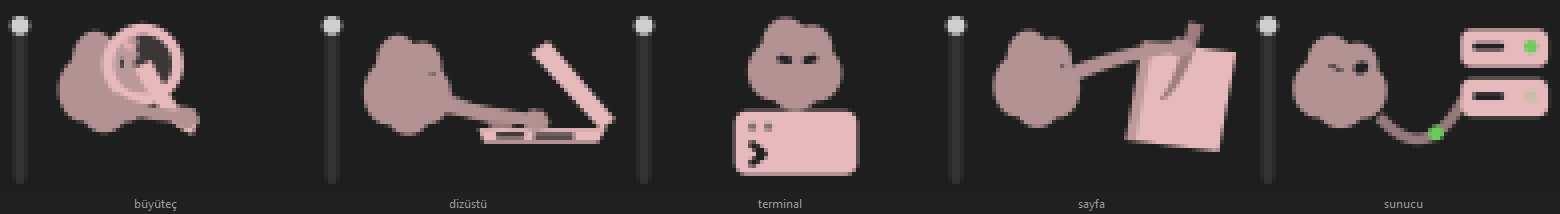
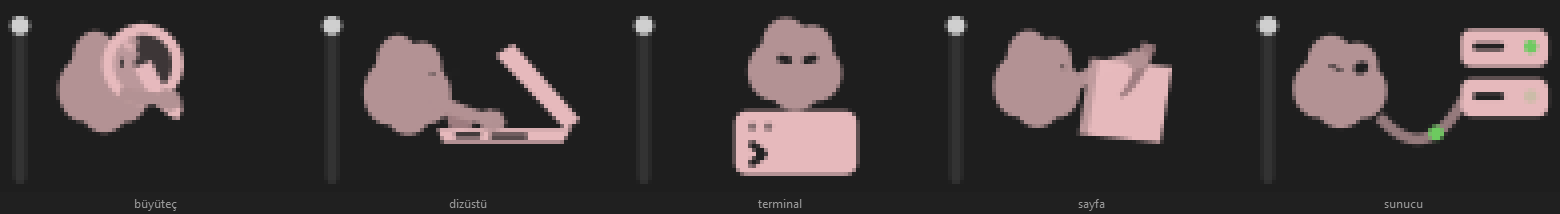
Nesneler gövdeye yanaştı: kollar geriliyordu
Berkay "eller bilgisayara çok uzun olmuş, sayfa kısmı da berbat,
büyüteçte öyle" dedi. Sebep ortaktı: nesne gövdeden 25-30 birim uzakta
duruyordu ve kol o mesafeyi kapatmak için çubuğa dönüyordu.

  dizüstü  46..90 -> 32..78; yazan biri bilgisayarı kucağına çeker
  büyüteç  sapın ucu 56 -> 51; merceği kolunu uzatarak değil sapından
           tutarsın
  sayfa    54..92 arasında koca bir levhaydı, sahnenin yarısı kâğıttı;
           küçüldü ve gövdeye yanaştı

Sayfada bir de sıra değişti: kol artık kâğıdın **arkasında**, el ve
kalem önünde. Kol önde olduğunda sayfanın üstünden geçip neyin kâğıt
neyin kol olduğunu belirsizleştiriyordu.

Changed region(s): [[0.6769, 0.0841, 0.8, 0.729], [0.2769, 0.1963, 0.4, 0.6729], [0.0615, 0.4206, 0.1538, 0.6168]]

diff --git a/scripts/sahne_svg.py b/scripts/sahne_svg.py
@@ -165,9 +165,12 @@ def mercek():
     # yüz uzayında (59.0, 37.5), profil kayması +16 ile (75.0, 37.5).
     # 46/96 ölçeğinde sahnede (37.9, 22.0) ediyor.
     cam = (38.0, 22.0)
-    sap_ucu = (56.0, 44.0)
-    el = (53.0, 40.0)
-    omuz = (28.0, 34.0)
+    # Sap camın hemen altında bitiyor ve el orada. Uç 56'daydı: el
+    # gövdeden 25 birim uzağa düşüyor ve kol geriliyordu. Bir merceği
+    # kolunu uzatarak değil, sapından tutarsın.
+    sap_ucu = (51.0, 39.0)
+    el = (47.0, 34.0)
+    omuz = (30.0, 32.0)
     return [
         ("--yuz--", None),
         ("sap", f'<path id="sap" d="{_serit(cam, sap_ucu, 3.2, 2.4, 0.5)}" '
@@ -197,13 +200,16 @@ def laptop():
     göstermiyor ve göstermemeli: ne yazdığı onun işi, bizim gördüğümüz
     şey çalıştığı.
     """
-    taban_sol, taban_sag, taban_y = 46.0, 90.0, 44.0
+    # Dizüstü gövdenin **önünde**, uzağında değil. 46..90 idi ve eller
+    # gövdeden 30 birim ötede kalıyordu: kollar uzayıp çubuğa dönüyordu.
+    # Yazan biri bilgisayarı kucağına çeker.
+    taban_sol, taban_sag, taban_y = 32.0, 78.0, 44.0
     # Menteşe sağ uçta ve ekranın tepesi **sola**, maskota doğru
     # yatıyor. Önceki hâlde sağa yatıyordu: ekran bize dönüktü ve
     # maskot arkasına bakıyordu.
-    ekran = [(88.0, 44.5), (64.0, 18.0), (70.0, 14.0), (93.0, 41.0)]
-    eller = [(54.0, 41.0), (66.0, 41.0)]
-    omuzlar = [(24.0, 28.0), (26.0, 34.0)]
+    ekran = [(76.0, 44.5), (52.0, 19.0), (58.0, 15.0), (81.0, 41.0)]
+    eller = [(40.0, 41.0), (51.0, 41.0)]
+    omuzlar = [(28.0, 28.0), (30.0, 34.0)]
     return [
         ("kol-uzak", f'<path id="kol-uzak" d="{_kol(omuzlar[0], eller[0], 0.6)}" '
                      f'fill="{RENK_UZAK}"/>'),
@@ -213,8 +219,8 @@ def laptop():
         ("ekran", f'<path id="ekran" d="{_yol(ekran)}" fill="{RENK_GOVDE}"/>'),
         ("taban", f'<path id="taban" d="{_yol([(taban_sol, taban_y), (taban_sag, taban_y), (taban_sag - 3, taban_y + 5), (taban_sol + 2, taban_y + 5)])}" '
                   f'fill="{RENK_GOVDE}"/>'),
-        ("tus-1", _kutu("tus-1", 52, taban_y + 1.5, 10, 1.8, 0.9, RENK_OYUK)),
-        ("tus-2", _kutu("tus-2", 65, taban_y + 1.5, 14, 1.8, 0.9, RENK_OYUK)),
+        ("tus-1", _kutu("tus-1", 38, taban_y + 1.5, 9, 1.8, 0.9, RENK_OYUK)),
+        ("tus-2", _kutu("tus-2", 50, taban_y + 1.5, 13, 1.8, 0.9, RENK_OYUK)),
         ("kol-yakin", f'<path id="kol-yakin" d="{_kol(omuzlar[1], eller[1], 0.6)}" '
                       f'fill="{RENK_TEN}"/>'),
         ("el-yakin", f'<path id="el-yakin" d="{_el(eller[1])}" '
@@ -256,18 +262,24 @@ def sayfa():
     arkasını görüyoruz. Satır çizmiyoruz: arkadan bakılan bir kâğıtta
     satır görünmez, göstermek sayfayı camdan yapmak olurdu.
     """
-    kagit = [(54.0, 48.0), (60.0, 14.0), (92.0, 18.0), (86.0, 52.0)]
-    sirt = [(54.0, 48.0), (60.0, 14.0), (63.5, 14.4), (57.5, 48.4)]
-    kalem_ust, kalem_uc = (78.0, 8.0), (66.0, 34.0)
-    el = (73.0, 16.0)
-    omuz = (26.0, 30.0)
+    # Sayfa küçüldü ve gövdeye yanaştı. 54..92 arasında koca bir levha
+    # olarak duruyordu: sahnenin yarısı kâğıttı ve el ona yetişmek için
+    # geriliyordu.
+    kagit = [(38.0, 46.0), (42.0, 20.0), (70.0, 23.0), (66.0, 49.0)]
+    sirt = [(38.0, 46.0), (42.0, 20.0), (45.0, 20.3), (41.0, 46.3)]
+    kalem_ust, kalem_uc = (62.0, 15.0), (52.0, 33.0)
+    el = (58.0, 20.0)
+    omuz = (32.0, 32.0)
     return [
+        # Kol sayfanın **arkasında**, el ve kalem önünde. Kol önde
+        # olduğunda sayfanın üstünden geçip kompozisyonu karıştırıyordu:
+        # neyin kâğıt neyin kol olduğu okunmuyordu.
+        ("kol-yakin", f'<path id="kol-yakin" d="{_kol(omuz, el, 0.5)}" '
+                      f'fill="{RENK_TEN}"/>'),
         ("--yuz--", None),
         ("kagit", f'<path id="kagit" d="{_yol(kagit)}" fill="{RENK_GOVDE}"/>'),
         ("sirt", f'<path id="sirt" d="{_yol(sirt)}" fill="{RENK_OYUK}" '
                  f'opacity="0.2"/>'),
-        ("kol-yakin", f'<path id="kol-yakin" d="{_kol(omuz, el, 0.5)}" '
-                      f'fill="{RENK_TEN}"/>'),
         ("kalem", f'<path id="kalem" d="'
                   f'{_serit(kalem_ust, kalem_uc, 2.6, 0.6, 0.5)}" '
                   f'fill="{RENK_UZAK}"/>'),

diff --git a/app/sahne.py b/app/sahne.py
@@ -55,7 +55,8 @@ PARCALAR = {
                "tus-1", "tus-2", "kol-yakin", "el-yakin"],
     "terminal": ["--yuz--", "pencere", "nokta-1", "nokta-2", "istem",
                  "imlec"],
-    "sayfa": ["--yuz--", "kagit", "sirt", "kol-yakin", "kalem", "el-yakin"],
+    "sayfa": ["kol-yakin", "--yuz--", "kagit", "sirt", "kalem",
+              "el-yakin"],
     "sunucu": ["kablo", "--yuz--", "raf-ust", "yuva-ust", "isik-ust",
                "raf-alt", "yuva-alt", "isik-alt", "kivilcim"],
 }
